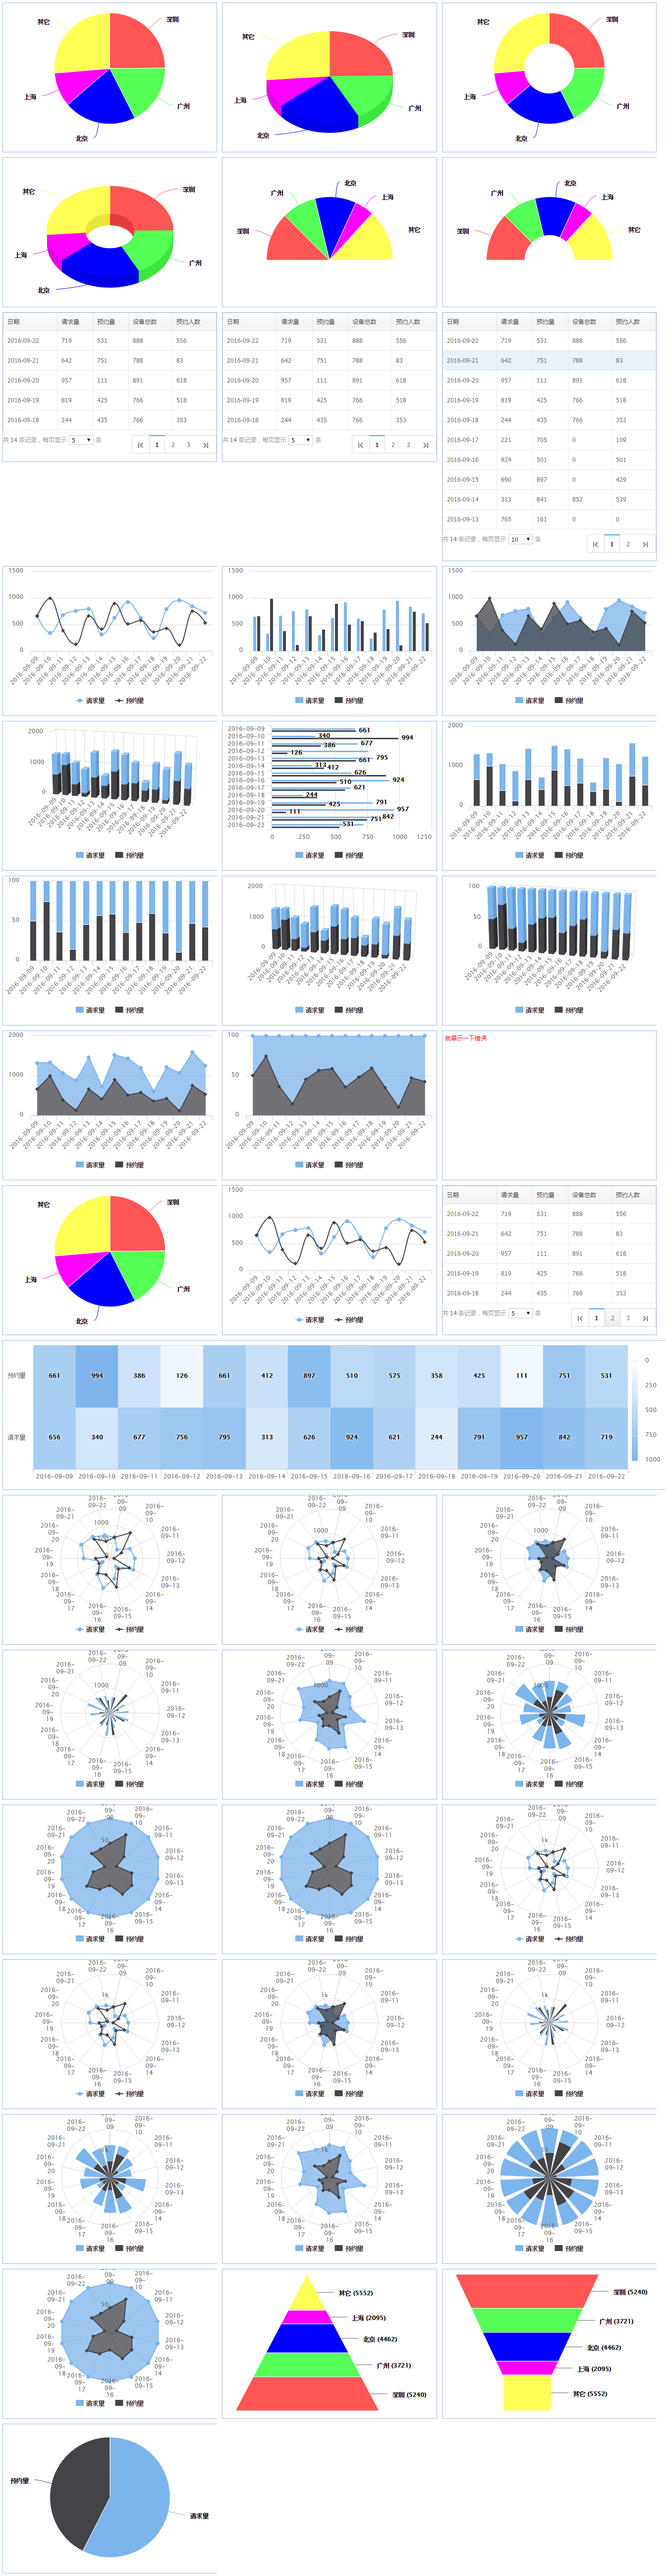
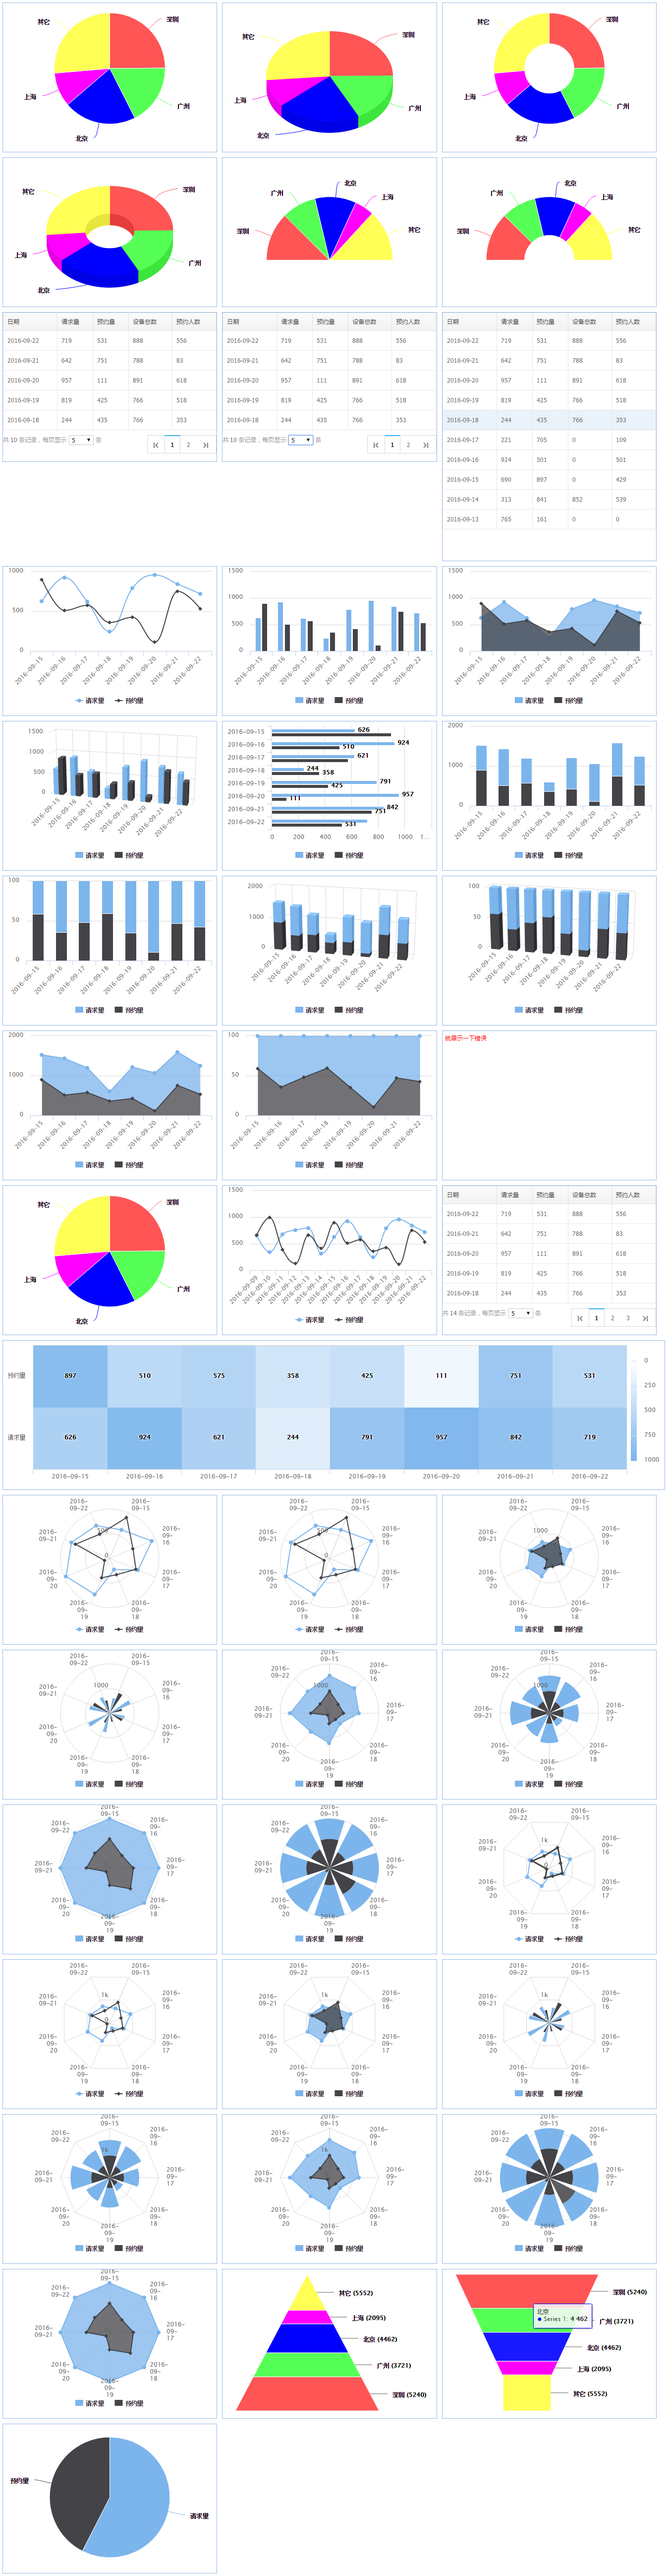
demo 调整

diff --git a/demo/index.html b/demo/index.html
@@ -237,7 +237,7 @@
 </div>
 <div class="ez-report-demo"  report-id="trend_chart.json" 
     report-config = '
-        "type" : "polar_area_percent"
+        "type" : "polar_column_percent"
     '>
 </div>
 <!--trend spiderweb  蛛网图-->
